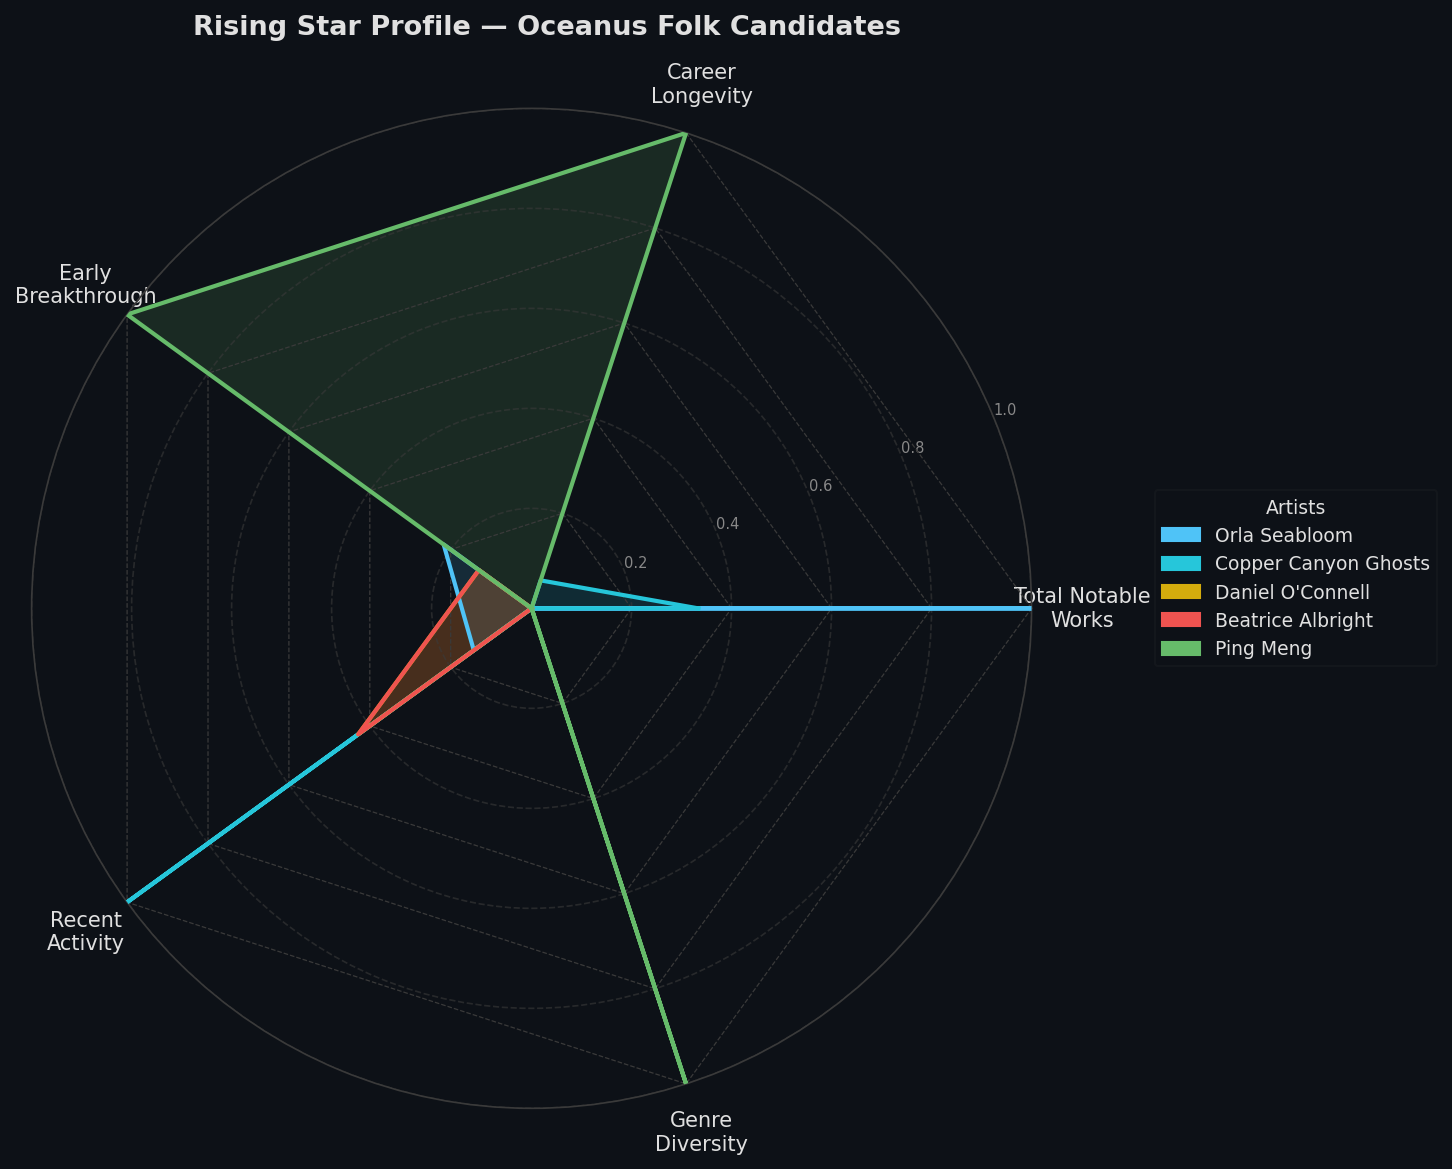
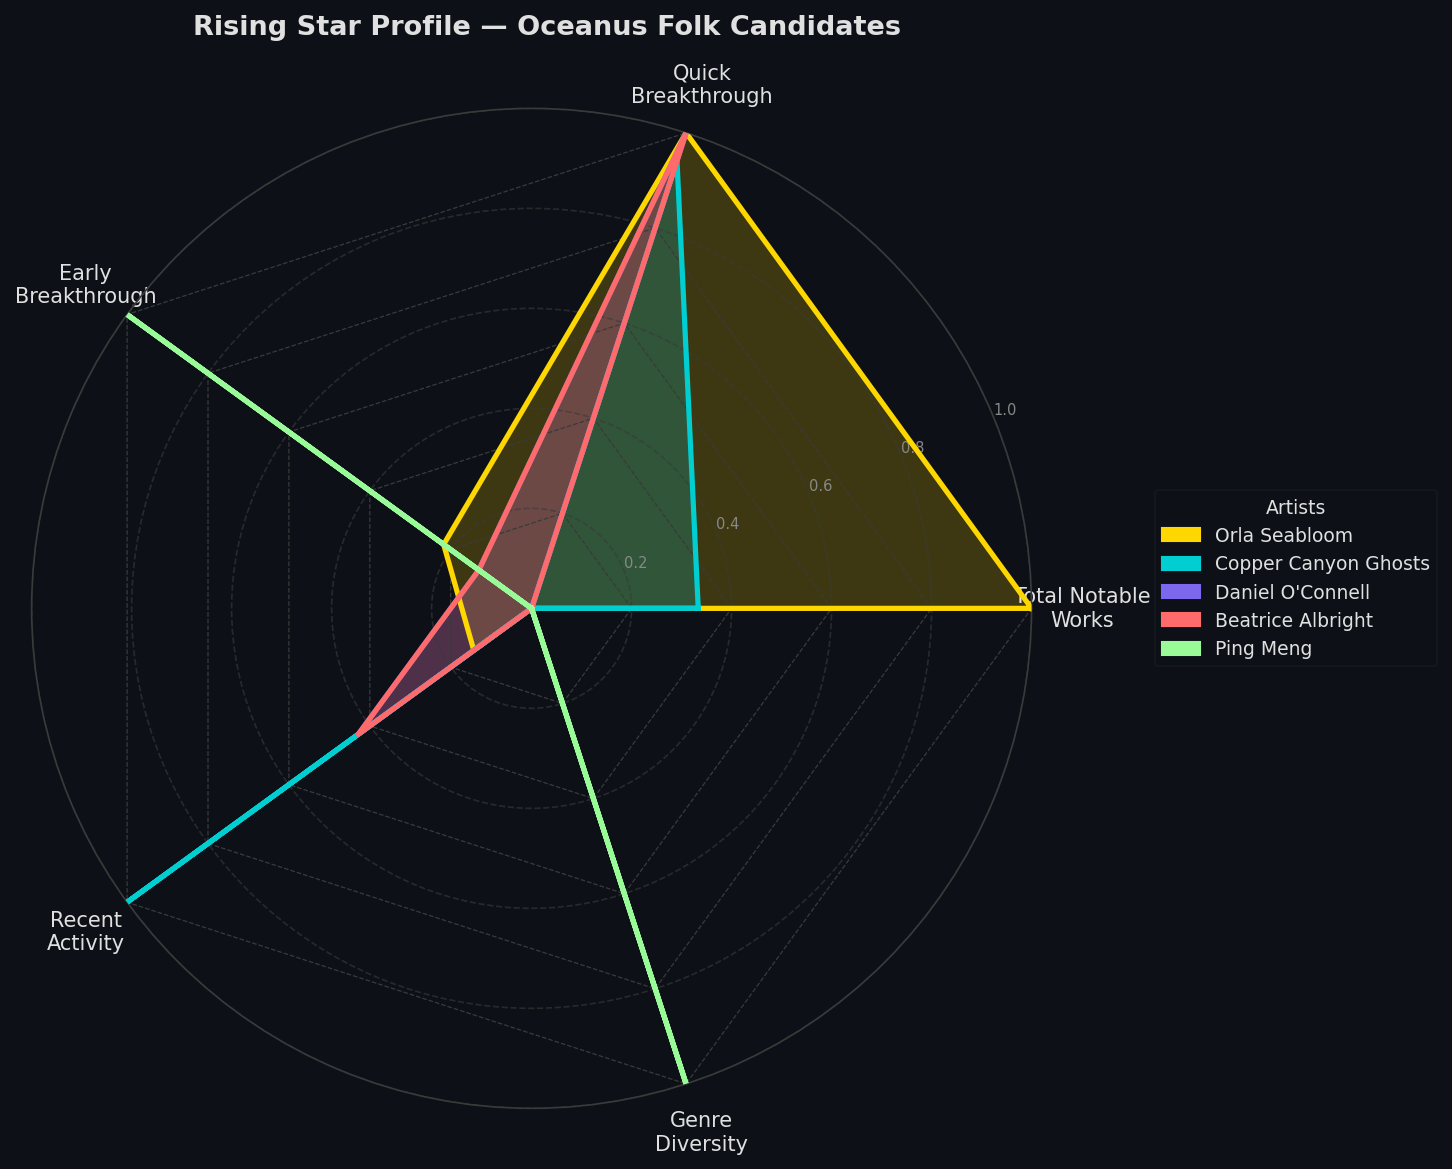
Fix Task 3 radar chart normalisation and colours
- Rename Career Longevity → Quick Breakthrough, invert years_active_span
- Normalise Early Breakthrough within 5-artist range only
- Apply exact per-artist colours (gold, teal, purple, coral, mint)
- Increase fill opacity to 0.2 and line width to 2.5

diff --git a/Data/task3_radar.py b/Data/task3_radar.py
@@ -39,27 +39,32 @@ def minmax(series):
     return (series - lo) / (hi - lo)
 
 # ── Build 5 normalised metrics ─────────────────────────────────────────────────
-of["m_works"]      = minmax(of["total_notable_works"])
-of["m_longevity"]  = minmax(of["years_active_span"])
+of["m_works"]     = minmax(of["total_notable_works"])
 
+# Quick Breakthrough: invert years_active_span — 0 yrs → score 1.0, 17 yrs → ~0
+span = of["years_active_span"].astype(float)
+of["m_quick"]     = minmax(span.max() - span)
+
+# Early Breakthrough: invert first_notoriety_date within this 5-artist range
 first_yr = of["first_notoriety_date"].astype(float)
-of["m_early"]      = minmax(first_yr.max() - first_yr)   # earlier → higher
+of["m_early"]     = minmax(first_yr.max() - first_yr)    # earlier → higher
 
 latest_yr = of["latest_notoriety_date"].astype(float)
 of["m_recent"]     = minmax(latest_yr)                   # later → higher
 
 of["m_diversity"]  = minmax(of["genre_diversity"])
 
-METRICS = ["m_works", "m_longevity", "m_early", "m_recent", "m_diversity"]
+METRICS = ["m_works", "m_quick", "m_early", "m_recent", "m_diversity"]
 LABELS  = [
     "Total Notable\nWorks",
-    "Career\nLongevity",
+    "Quick\nBreakthrough",
     "Early\nBreakthrough",
     "Recent\nActivity",
     "Genre\nDiversity",
 ]
 
-COLOURS = ["#4fc3f7", "#26c6da", "#d4ac0d", "#ef5350", "#66bb6a"]
+# Artist order after sort: Orla, Copper Canyon, Daniel, Beatrice, Ping Meng
+COLOURS = ["#FFD700", "#00CED1", "#7B68EE", "#FF6B6B", "#98FB98"]
 
 # ── Radar geometry ─────────────────────────────────────────────────────────────
 N      = len(METRICS)
@@ -92,8 +97,8 @@ legend_patches = []
 for i, (_, row) in enumerate(of.iterrows()):
     values = [row[m] for m in METRICS] + [row[METRICS[0]]]
     colour = COLOURS[i]
-    ax.plot(angles, values, color=colour, linewidth=2, zorder=3)
-    ax.fill(angles, values, color=colour, alpha=0.15)
+    ax.plot(angles, values, color=colour, linewidth=2.5, zorder=3)
+    ax.fill(angles, values, color=colour, alpha=0.2)
     legend_patches.append(
         mpatches.Patch(facecolor=colour, edgecolor=colour, label=row["performer_name"])
     )
